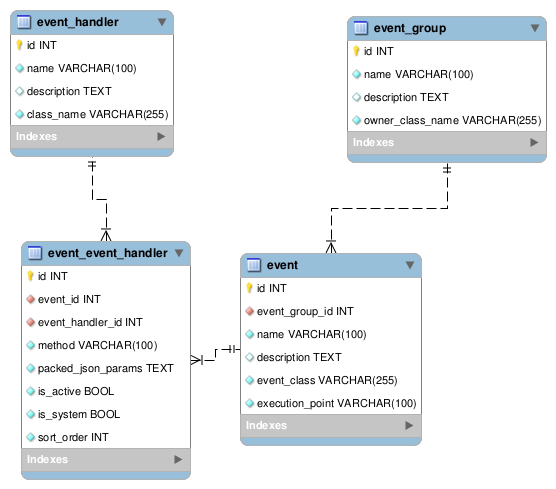
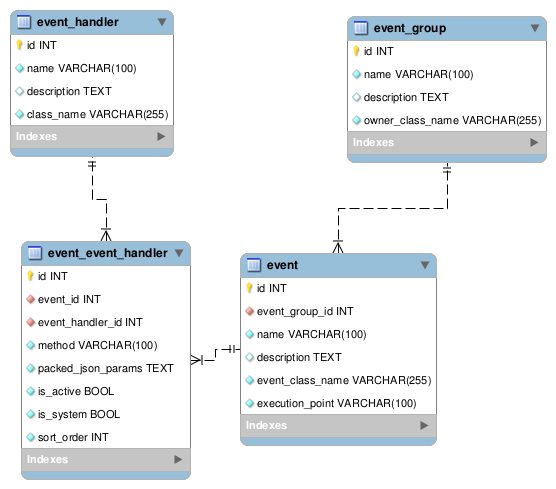
Some russian documentation

diff --git a/docs/ru/structure.md b/docs/ru/structure.md
@@ -1,0 +1,44 @@
+Структура
+=========
+
+Ниже представлена схема базы данных модуля yii2-events-system.
+
+![Events database structure](../events.png)
+
+**event_group** - группы событий. Таблица содержит группы с целевыми классами на которые будут прикрепляться обработчики. По умолчанию их 4, но вы можете добавить свои собственные. Это целесообразно сделать для своих модулей. 
+
+- `id` - идентификатор
+- `name` - название группы
+- `description` - описание
+- `owner_class_name` - название класса к которому привязываются события группы. Может содержать дубли. Например, для логической группировки событий
+
+**event** - события. Таблица содержит все доступные события для заданной группы. Таблица носит информативный характер и используется для построения интерфейса административной части. Поэтому каждое новое событие, которое добавили в код приложения или модуля, обязательно дублировать в эту таблицу
+
+- `id` - идентификатор
+- `event_group_id` - связь с группой
+- `name` - название события
+- `description` - описание
+- `event_class_name` - название класса события
+- `execution_point` - название точки выполнения события (уникальное имя события, которое используется в методе `trigger`)
+
+**event_handler** - обработчики. Таблица содержит классы обработчиков. Каждый класс может в себе содержать несколько статичных методов для различныз событий
+
+- `id` - идентификатор
+- `name` - название обработчика
+- `description` - описание
+- `class_name` - название класса обработчика
+
+**event_event_handler** - привазка обработчиков к событиям. Это основная таблица и именно с ней ведется работа через административный раздел
+
+- `id` - идентификатор
+- `event_id` - событие
+- `event_handler_id` - обработчик
+- `method` - название метода
+- `packed_json_params` - параметры обработчика
+- `is_active` - флаг "активен ли обработчик"
+- `is_system` - флаг "системный ли это обработчик"
+- `sort_order` - порядок добавления событий. Используется для последовательного выполнения обработчикой события. Например, когда необходимо остановить выполнение последующих обработчиков.
+
+***Примечания***
+
+Все названия классов - это полный "путь" до класса вместе с неймспейсом, но без начального слеша. Например, `yii\web\Application`.
